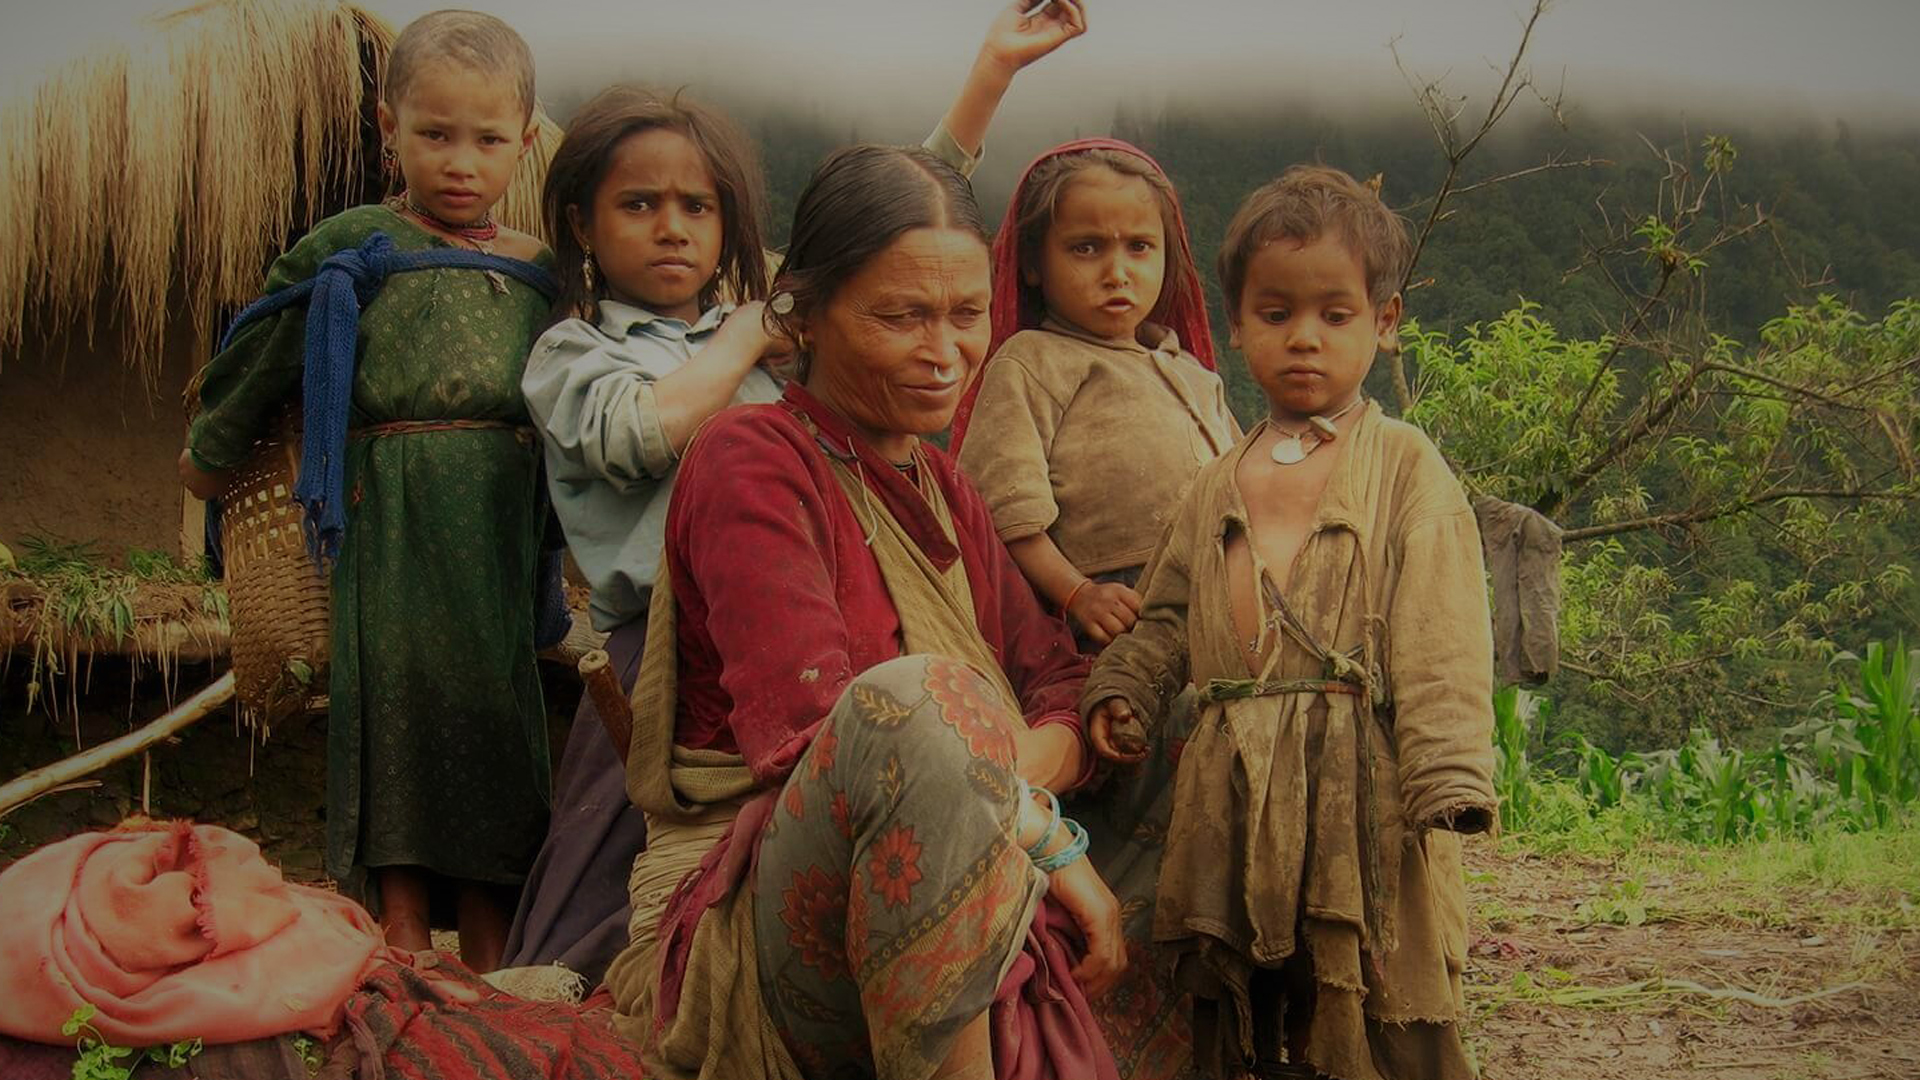
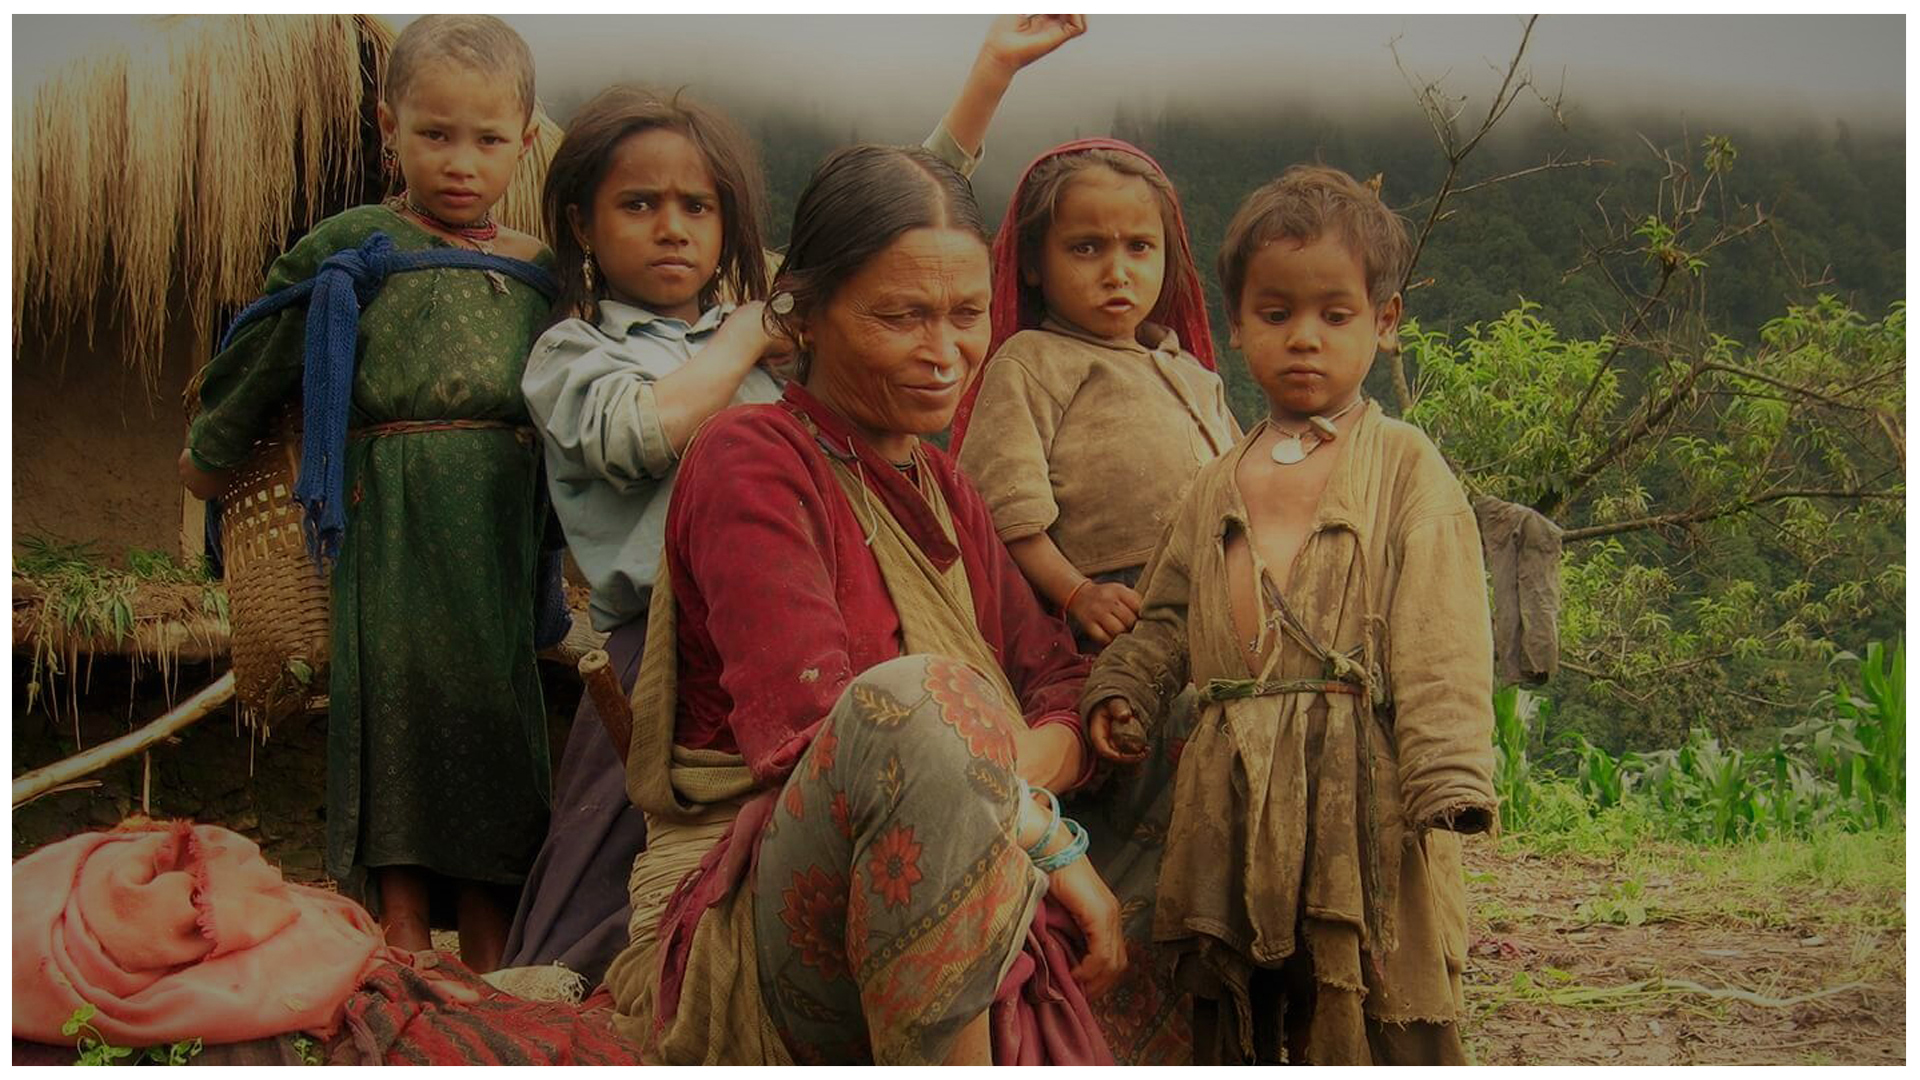
Fixed Image border issue

Changed region(s): [[0.0, 0.0, 1.0, 1.0]]

diff --git a/src/MainBlogPage/MainBlogPage.jsx b/src/MainBlogPage/MainBlogPage.jsx
@@ -8,7 +8,7 @@ export const MainBlogPage = () => {
     const getData = async ()=>{
         const response = await axios.get('https://karmanya.herokuapp.com/blog');
         const { data } = await response;
-        setPostData(data);
+        setPostData(data.reverse());
         setLoading(false)
         }
     

diff --git a/src/AdminComponents/TableGenerator.jsx b/src/AdminComponents/TableGenerator.jsx
@@ -16,7 +16,7 @@ export const TableGenerator = ({endPoint})=>{
      useEffect(()=>{
         const getData = async ()=>{
             const {data} = await axios.get(apiURL);
-            setPostData(data);
+            setPostData(data.reverse());
             setLoading(false);
         }
         getData();

diff --git a/src/index.js b/src/index.js
@@ -1,7 +1,7 @@
 import React from 'react';
 import ReactDOM from 'react-dom';
-import './AboutUs/aboutUs.css'
-import App from './AboutUs/AboutUs';
+import './Header/header.css'
+import App from './Header/Header'
 
 
 ReactDOM.render(
